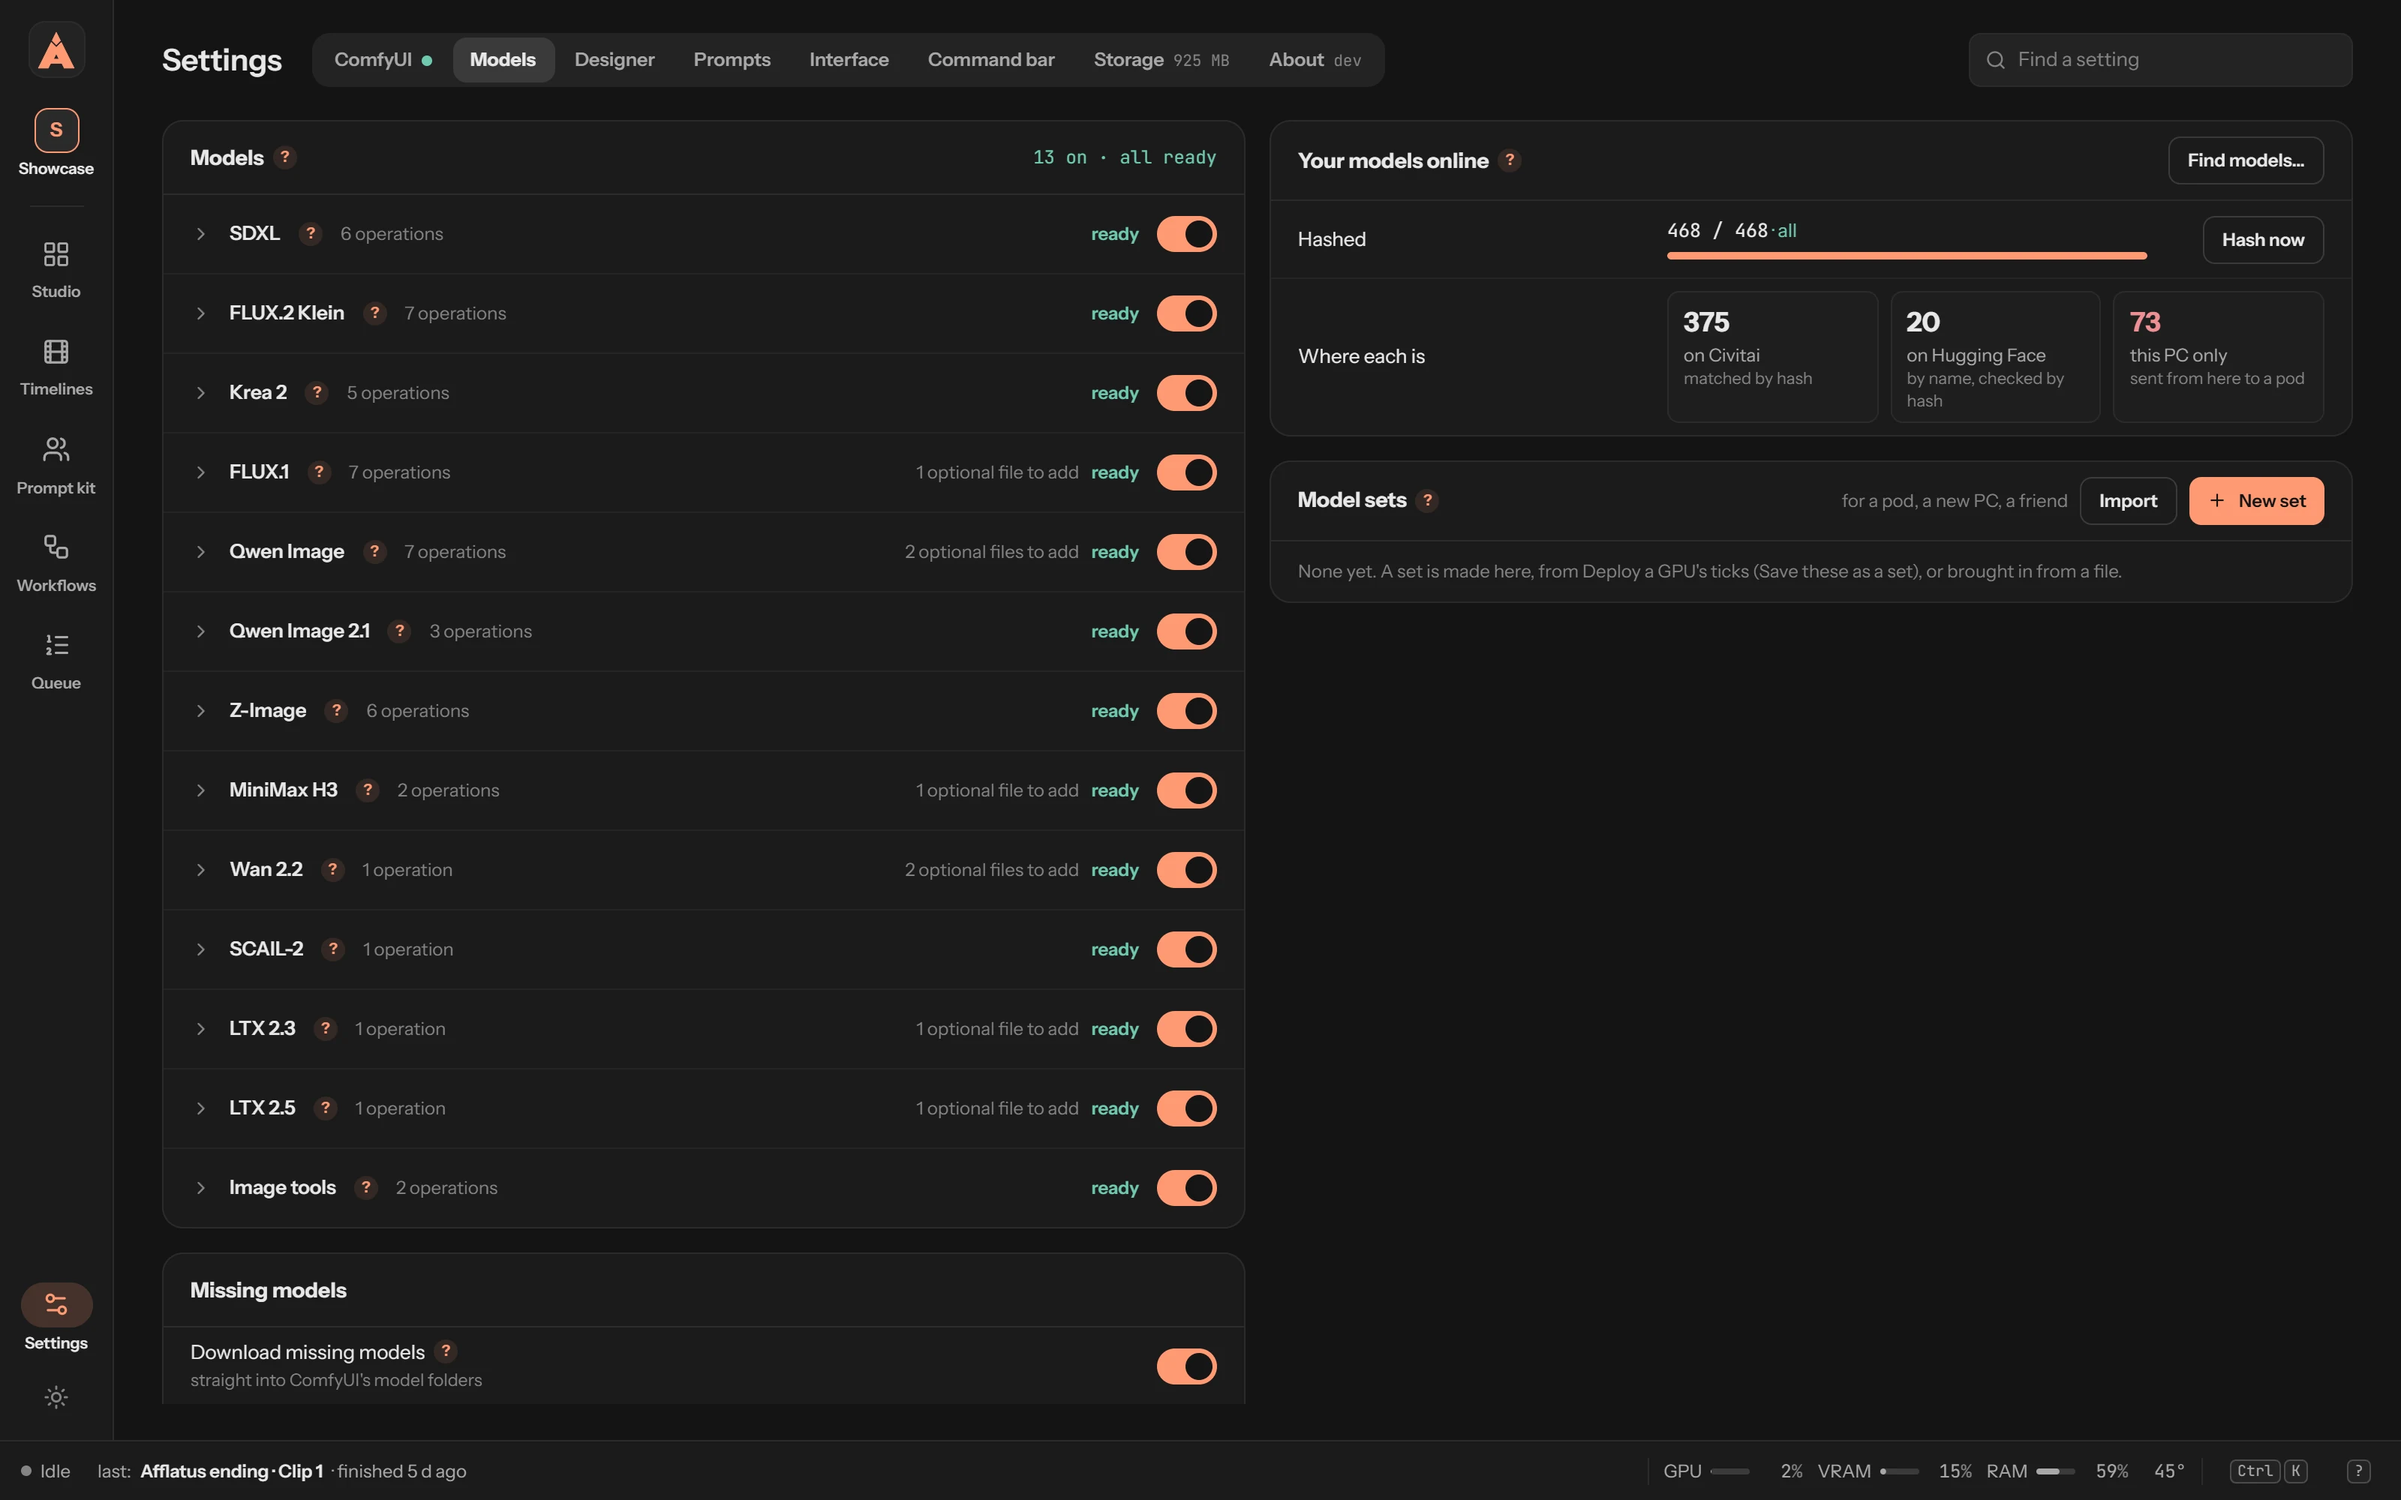
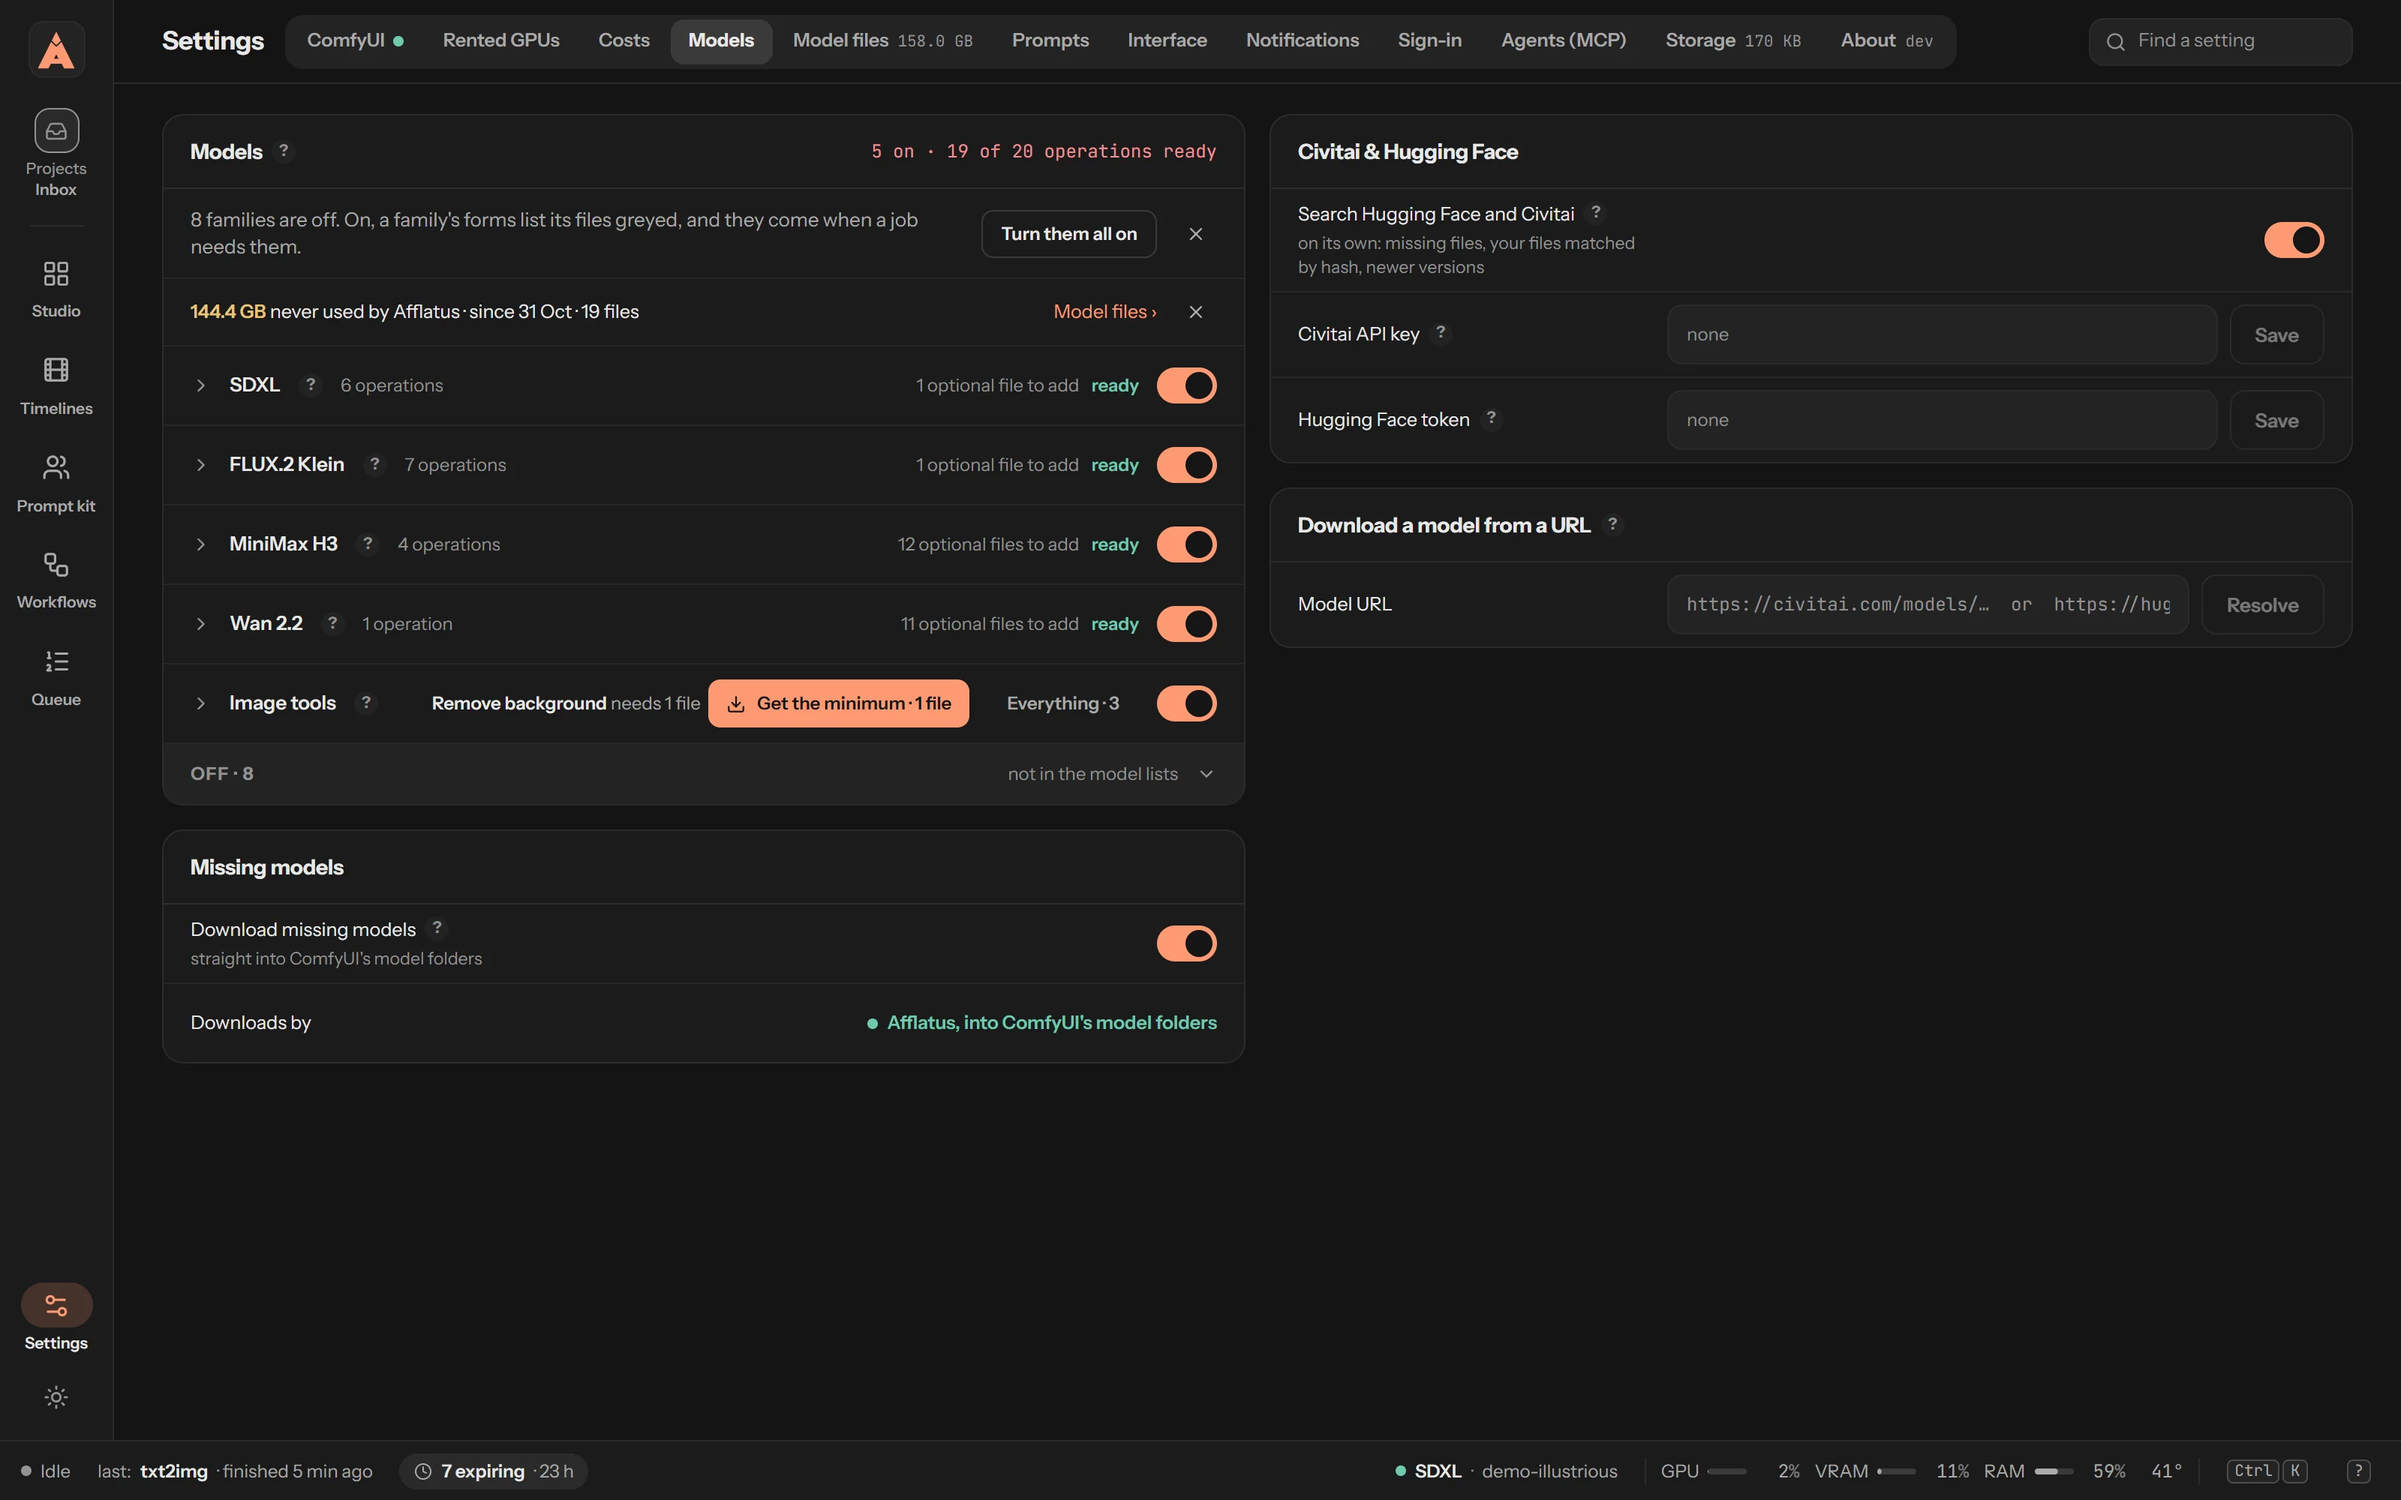
Pictures for 0.9.0 (card #51): the timeline with a join open on Seamless / Hard cut, a clip's takes with a cut at the join, Settings › Models, Settings › Model files, Deploy a GPU by $ / render
Shot on the capture copy (8722, invented data) and the demo (8720, pretend ComfyUI and RunPod), Studio Dark, 1600x1000 at 2x. The README's Keep table gains Model files and the Deploy dialog.

diff --git a/README.md b/README.md
@@ -54,7 +54,7 @@ Since 0.8, agents drive the studio over MCP: see [docs/mcp.md](docs/mcp.md). Eve
 
 ## Film
 
-<p align="center"><img src="docs/media/timeline.webp" alt="The timeline editor with a range marked across two clips and its actions: Regenerate, Loop, Split, Remove, Copy, Slow" width="820"></p>
+<p align="center"><img src="docs/media/timeline.webp" alt="The timeline editor: five MiniMax H3 clips carried on in the latent, the join between clips 2 and 3 open on Seamless and Hard cut, with how it holds" width="820"></p>
 
 Clips are easy to make. A film is the hard part, and that is what the timeline is for.
 
@@ -64,7 +64,7 @@ Clips are easy to make. A film is the hard part, and that is what the timeline i
 - **Takes, not re-rolls.** Each clip is a form of its own. Render three takes at once; each is listed with how cleanly it joins in and out and how close its face is to the person, the smoothest is marked, you pick the one that plays, and the rest wait on the shelf for a later cut.
 - **Regenerate a range.** Mark two seconds, inside a clip or across the join of two, and press Regenerate: a new clip is made for that stretch, joined to the clips on both sides, and the rest of the timeline stays as it was.
 
-<p align="center"><img src="docs/media/insight.webp" alt="A clip's takes with their join figures, and its look measured against the clips before and after it" width="820"></p>
+<p align="center"><img src="docs/media/insight.webp" alt="A clip's takes with their join figures in and out, the smoothest marked, and one flagged as a cut at the join" width="820"></p>
 
 - **Measured, not eyeballed.** Every take carries the figures of its joins, in and out, and of its look against the clip before and the start of its run: brightness, sharpness, grain, pace, colour, flicker, and the face against the person's own pictures when there is one. The figures come from the frames, and a chart follows them along the run. When a join jumps, the timeline names the take that would join more cleanly; the call stays yours.
 - **The rest of an editor.** Ranges that snap to the quiet moments and the cuts, split at the playhead, stills held on screen, slow motion, loops, music that ducks under voices.
@@ -117,8 +117,12 @@ Your key, RunPod's bill, no account with Afflatus and no cut for anyone. It is o
 <td><img src="docs/media/locked.webp" alt="A locked ComfyUI: the page a browser gets without the token"><br><b>And the ComfyUIs behind it, locked.</b> Afflatus puts a token in front of every ComfyUI it drives, a pod's from its first second. Without it, a browser gets this page and nothing else.</td>
 </tr>
 <tr>
-<td><img src="docs/media/models.webp" alt="Settings → Models: what each family has and lacks, and where each of your models is online"><br><b>Your models, accounted for.</b> What each family lacks, with the button that fetches it; your own files hashed and matched to their pages.</td>
+<td><img src="docs/media/models.webp" alt="Settings → Models: each family folded to what it lacks, Get the minimum, and the Civitai and Hugging Face card"><br><b>Your models, accounted for.</b> What each family lacks, with the button that fetches its minimum; Civitai and Hugging Face in one card.</td>
 <td><img src="docs/media/find.webp" alt="Find models: Civitai and Hugging Face browsed from the app"><br><b>Find models.</b> Civitai and Hugging Face from inside the app, filtered to your families, straight onto this PC, a pod or a set.</td>
+</tr>
+<tr>
+<td><img src="docs/media/model-files.webp" alt="Settings → Model files: every model file with its uses, the files never used by Afflatus selected, Delete 19 files"><br><b>Model files.</b> Every file in ComfyUI's folders with how often Afflatus loaded it, what needs it and its copies. What you never use goes to the Recycle Bin in one click, and comes back with Put back.</td>
+<td><img src="docs/media/deploy.webp" alt="Deploy a GPU: RunPod's stock ranked by $ per render for the renders waiting, the time beside it"><br><b>The GPU that costs least per render.</b> RunPod's stock ranked by what a render waiting would cost on each card, from your own renders; a card you never used is a guess, marked ≈.</td>
 </tr>
 </table>
 
